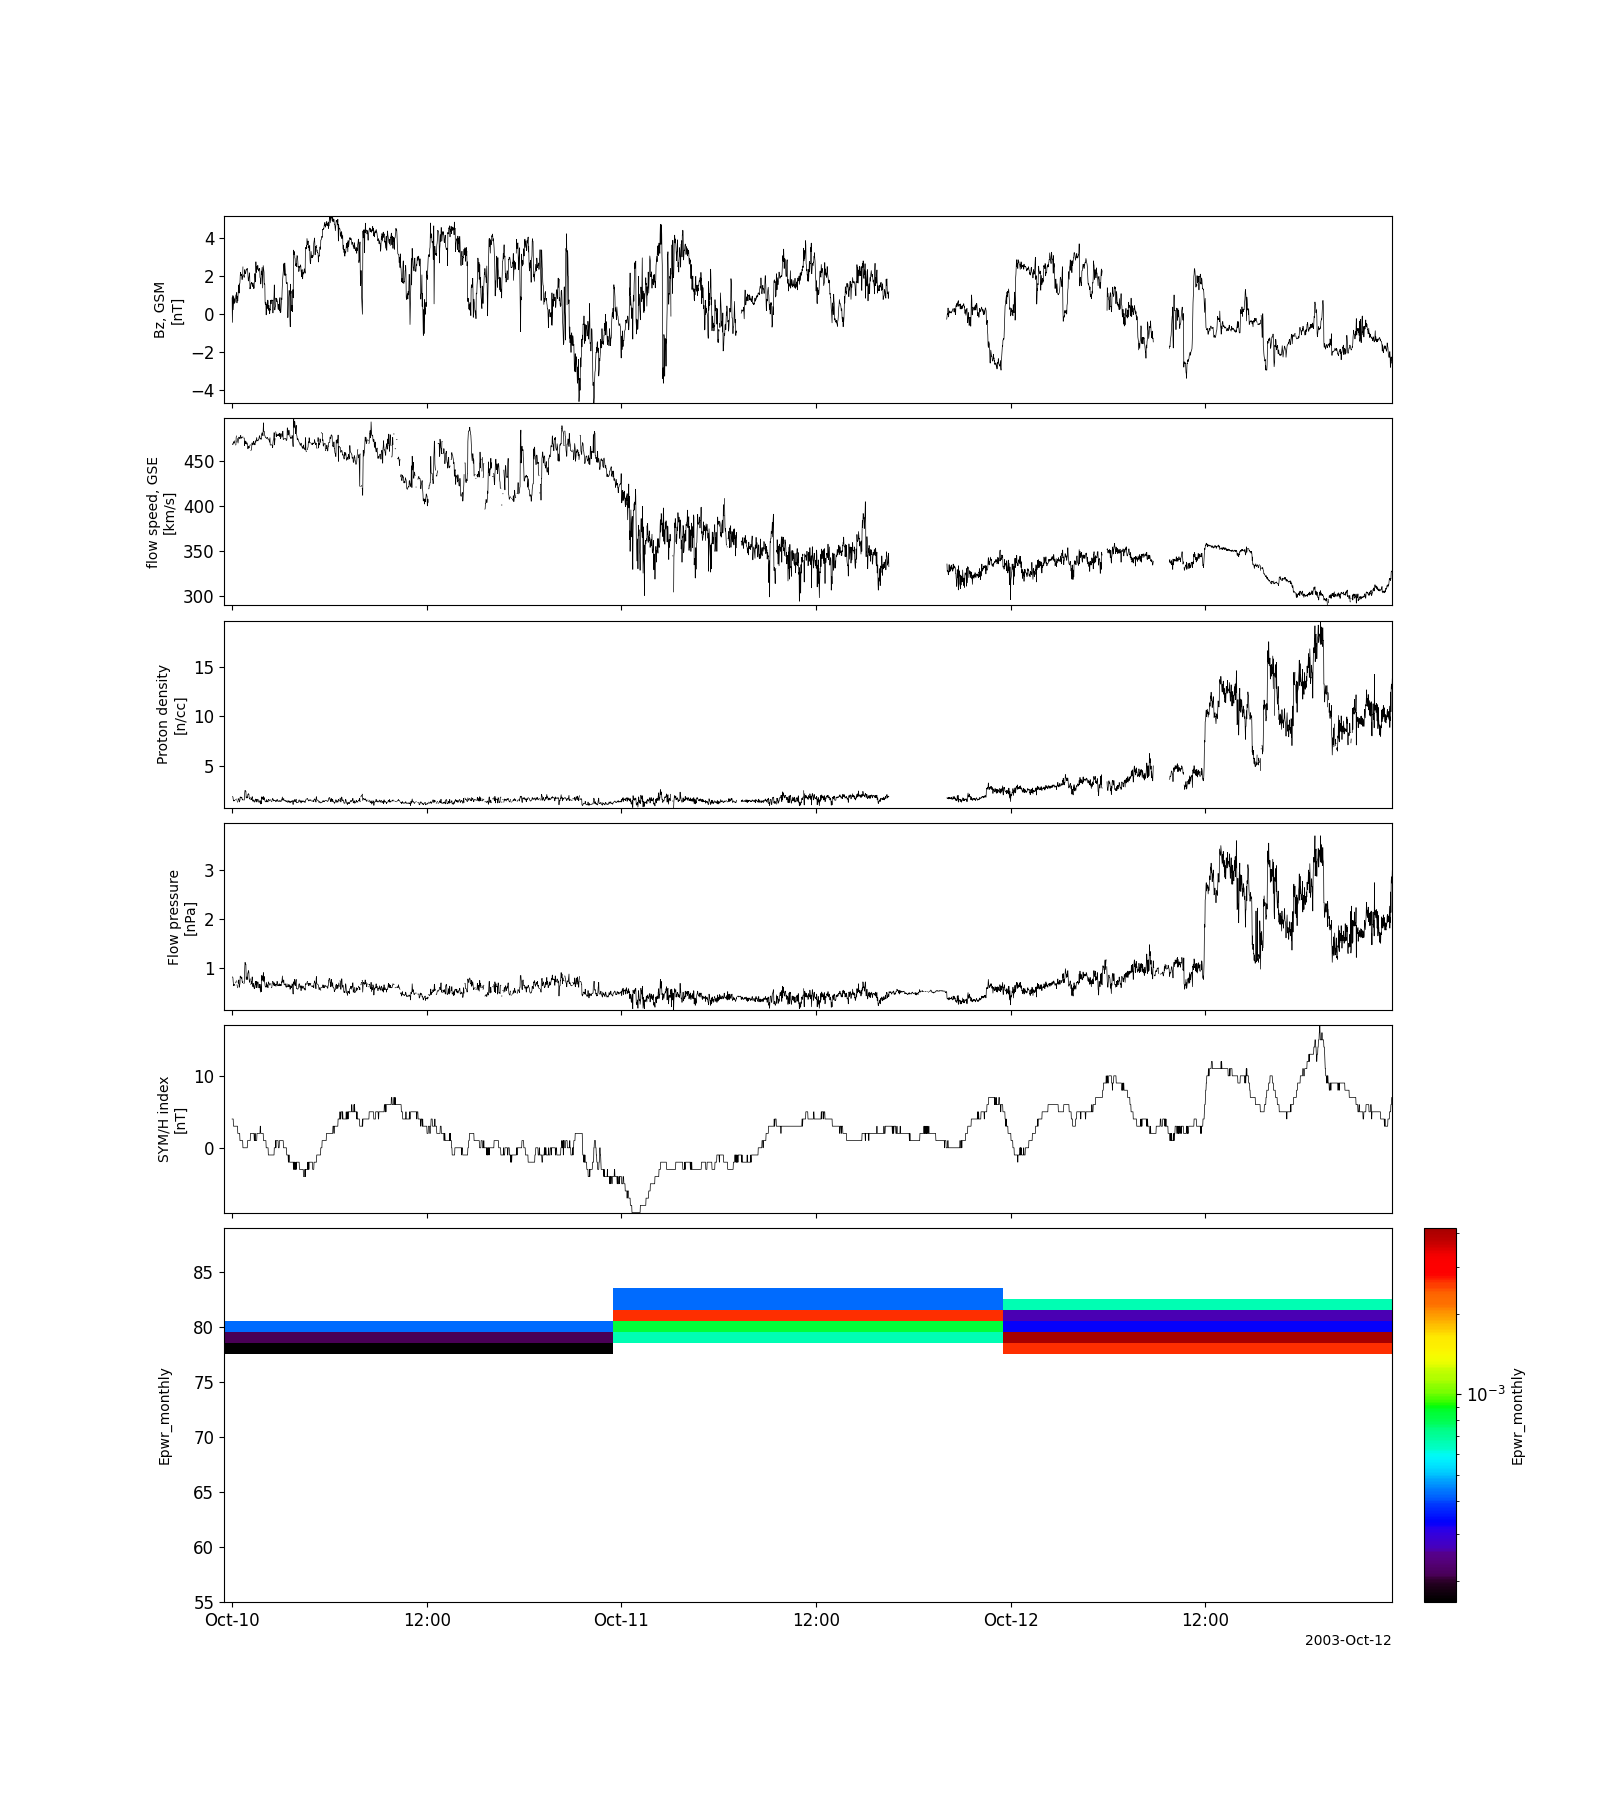
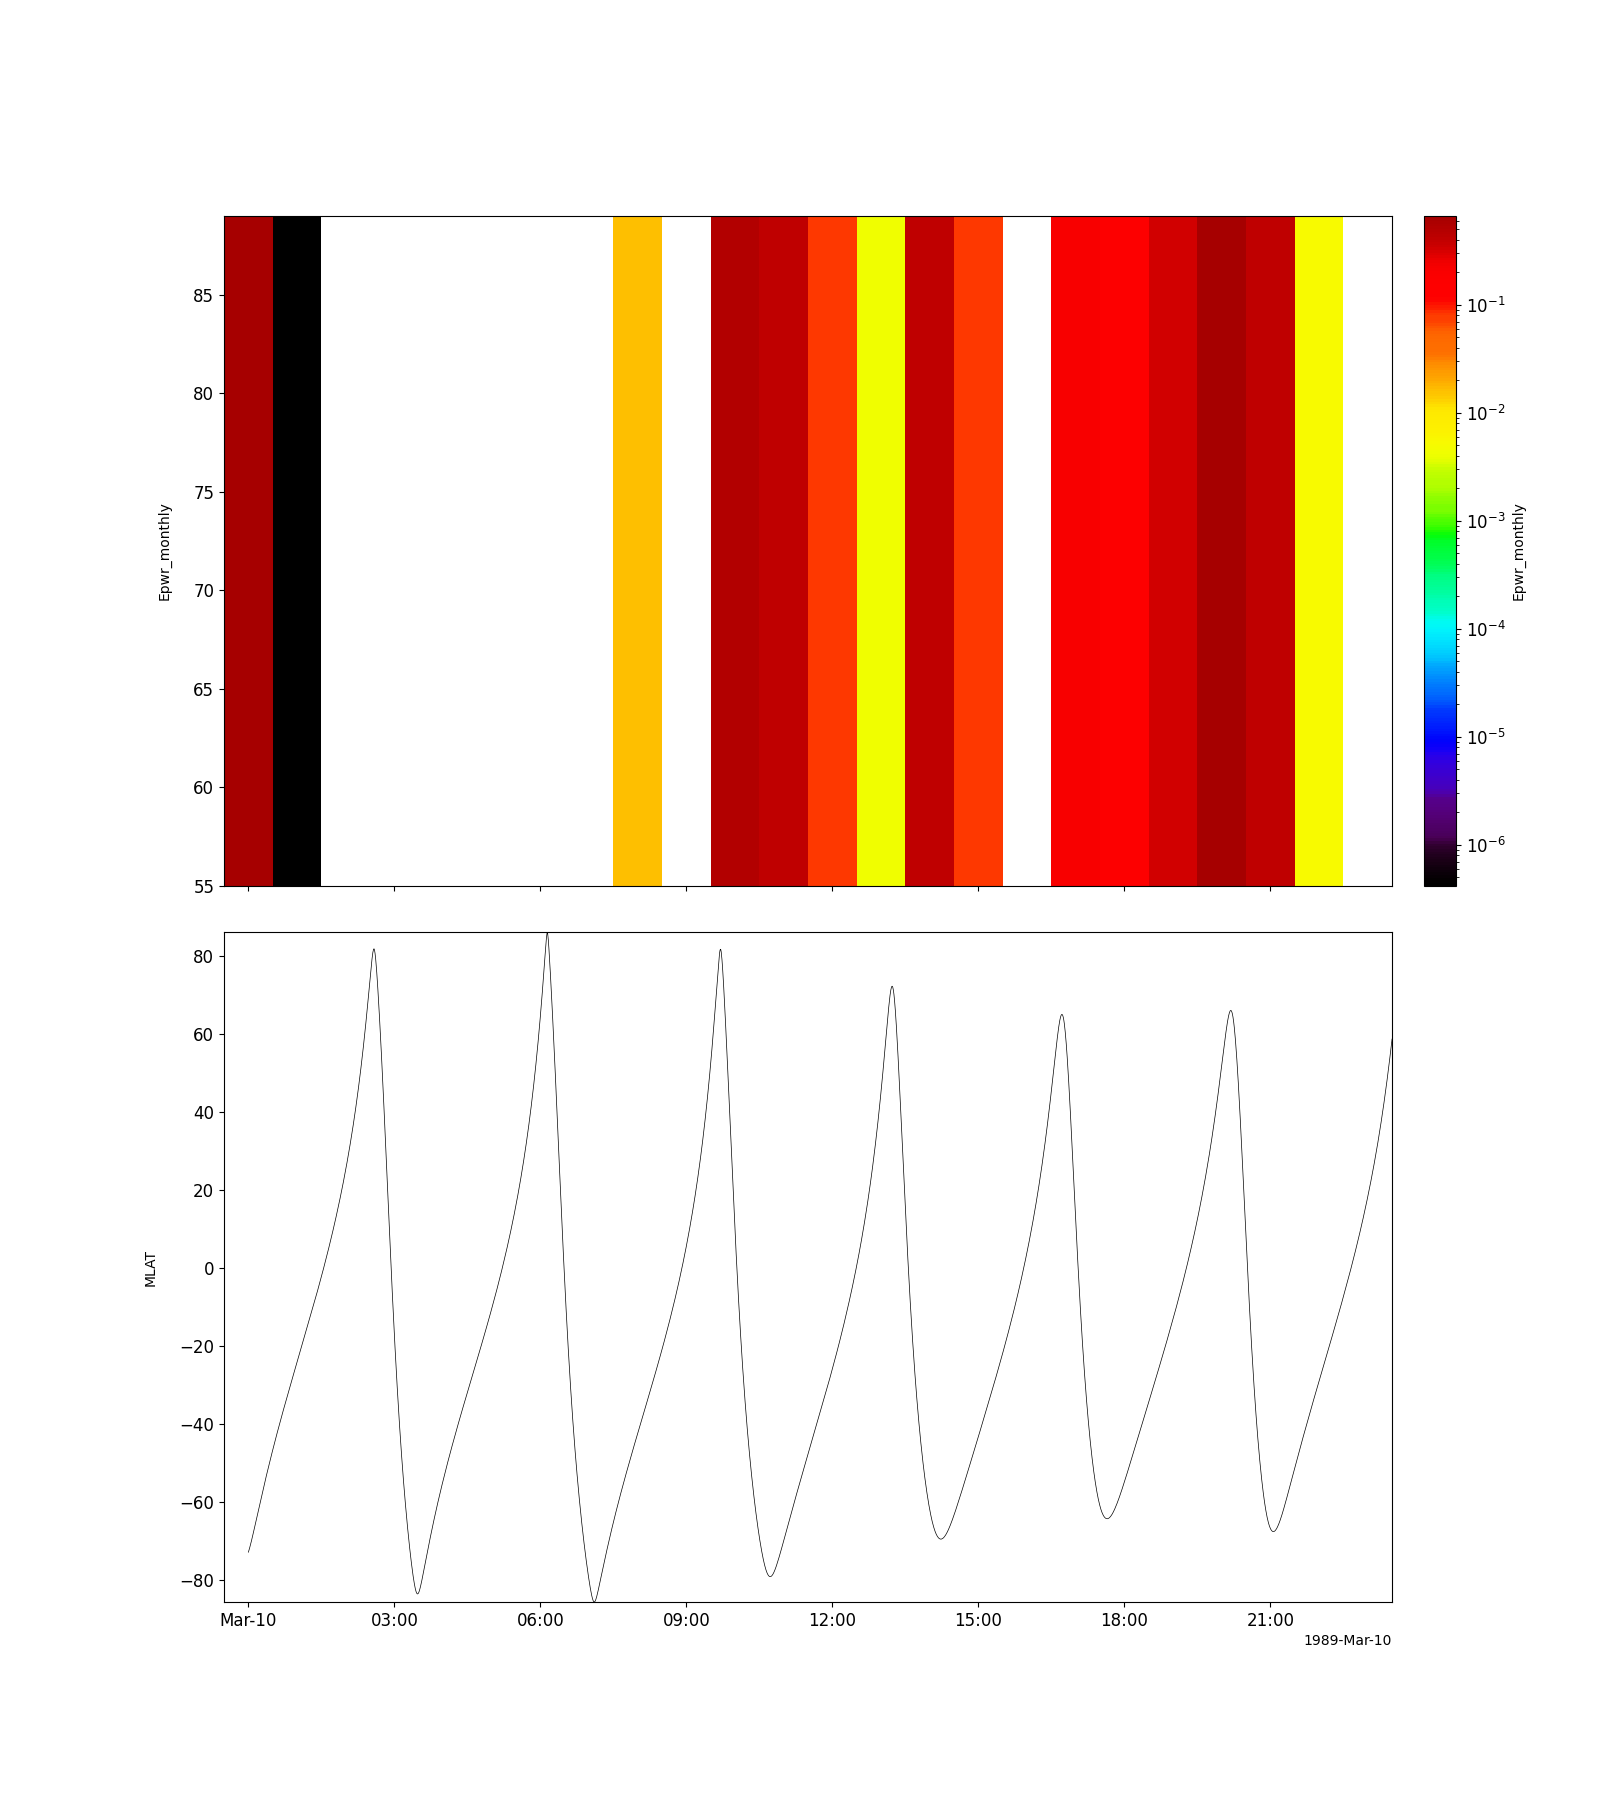
monthly plot bug fix

diff --git a/VLF_mca/akebono_mca_monthly_plot.py b/VLF_mca/akebono_mca_monthly_plot.py
@@ -1,19 +1,22 @@
+from cmath import nan
 import pyspedas
 from pytplot import get_data, store_data, tplot_names, tplot, options, tlimit
 from pyspedas import time_clip, time_double, time_string, tinterpol
 import numpy as np
 from load import mca, orb
 
-day = 3
+day = 1
 seconds_per_day = 86400
 unit_time_hour = 1
 unit_time_width = 3600 * unit_time_hour
 unit_per_day = seconds_per_day/(unit_time_width)
 lat_array = np.arange(55, 90)
 
+freq_channel_index = 0
+
 matrix = []
 
-start_time = time_double('2003-10-10 00:00:00')
+start_time = time_double('1989-03-10 00:00:00')
 end_time = start_time+day*seconds_per_day
 
 days = np.arange(start_time, end_time + seconds_per_day, seconds_per_day, float)
@@ -32,8 +35,8 @@ for i in range(len(days_string)-1):
             bandwidth = tplot_variable.v * 0.3
             tplot_variable_amplitude = (10**(tplot_variable_float/20)) * (tplot_variable_0dB)  / np.sqrt(bandwidth)
             tplot_variable_power = (10**(tplot_variable_float/10)) * ((tplot_variable_0dB)**2)  / bandwidth
-            store_data(tplot_name[k] +'_Amp', data={'x': tplot_variable.times, 'y': tplot_variable_amplitude, 'v': tplot_variable.v})
-            store_data(tplot_name[k] +'_Pwr', data={'x': tplot_variable.times, 'y': tplot_variable_power, 'v': tplot_variable.v})
+            store_data(tplot_name[k] +'_amp', data={'x': tplot_variable.times, 'y': tplot_variable_amplitude, 'v': tplot_variable.v})
+            store_data(tplot_name[k] +'_pwr', data={'x': tplot_variable.times, 'y': tplot_variable_power, 'v': tplot_variable.v})
             
     tinterpol('akb_ILAT', interp_to='Emax', newname = 'ILAT')
     tinterpol('akb_MLAT', interp_to='Emax', newname = 'MLAT')
@@ -47,14 +50,45 @@ for i in range(len(days_string)-1):
     MLAT = get_data('MLAT')
     MLT = get_data('MLT')
     
+    #in north hemisphere
+    for j in range(2):
+        pwr_list_per_hour = []
+        for lat in lat_array:
+            index_tuple = np.where((hours[j] <= Emax_pwr.times) & (Emax_pwr.times < hours[j+1]) & (ILAT.y > lat) & (ILAT.y < lat+1) & (MLAT.y<0))
+            index = index_tuple[0] 
+            ilat = ILAT.y[index]
+            mlat = MLAT.y[index]
+            mlt = MLT.y[index]
+            if len(index) == 0:
+                pwr_list_per_hour.append(np.nan)
+            else:
+                Emax_pwr_1deg = Emax_pwr.y.T[0][index]
+            
+                pwr_list_per_hour.append(np.nanmax(Emax_pwr_1deg))
+                print(np.nanmax(Emax_pwr_1deg))
+            
+        matrix.append(pwr_list_per_hour)
+    print(matrix)
+    
+            
+
+
+
+
+'''
     for j in range(len(hours)-1):
         pwr_list_per_hour = []
         for lat in lat_array:
-            index_tuple = np.where((hours[j]>= Emax_pwr.times) & (hours[j+1]<= Emax_pwr.times) &(MLAT>0) & (ILAT<lat+1) & (ILAT>lat) & (MLT>=10) & (MLT<=14)) 
+            index_tuple = np.where((hours[j] <= Emax_pwr.times) & (hours[j+1] > Emax_pwr.times))
             index = index_tuple[0] 
+            print(index)
+            Emax_pwr_1h = Emax_pwr.y.T[0][index]
+            ilat = ILAT.y[index]
+            mlat = MLAT.y[index]
+            mlt = MLT.y[index]
+            
             try:
-                print(index)
-                Emax_1deg = Emax_pwr[index]               
+                Emax_1deg = Emax_pwr.y.T[freq_channel_index][index]               
                 pwr_list_per_hour.append(np.nanmax(Emax_1deg))
             except Exception as e:
                 print(e)
@@ -73,6 +107,8 @@ pyspedas.omni.data([start_time, end_time], datatype='1min', level='hro', no_upda
 #options('Epwr_monthly', 'zrange',[1e-4, 1] )
 options('Epwr_monthly', 'spec', 1)
 options('Epwr_monthly', 'zlog', 1)
-omni_var_name = ['BZ_GSM', 'flow_speed', 'proton_density', 'Pressure', 'SYM_H']
-options(omni_var_name, 'panel_size', 0.5)
-tplot(omni_var_name+['Epwr_monthly'], xsize=16, ysize = 18, save_png='north_mca_monthly_2h_omni_max_test')
+options('MLAT', 'yrange', [-90, 0])
+#omni_var_name = ['BZ_GSM', 'flow_speed', 'proton_density', 'Pressure', 'SYM_H']
+#options(omni_var_name, 'panel_size', 0.5)
+tplot(['Epwr_monthly', 'MLAT'], xsize=16, ysize = 18, save_png='north_mca_monthly_2h_omni_max_test2')
+'''
